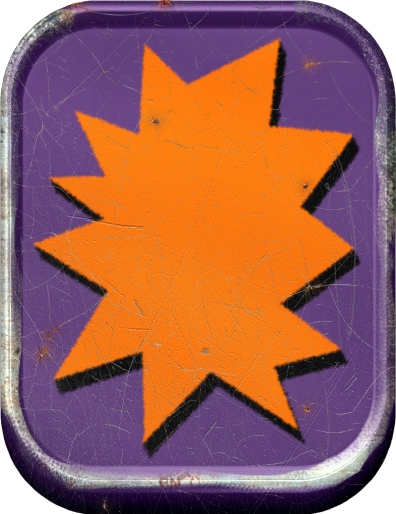
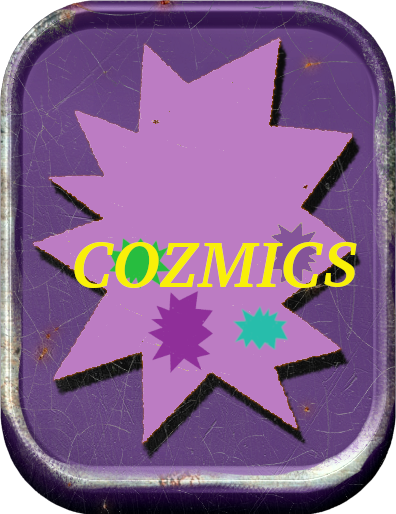
update GUI
update GUI  png de base

diff --git a/zwabo-cozmics.lv2/modgui/stylesheet-cozmics.css b/zwabo-cozmics.lv2/modgui/stylesheet-cozmics.css
@@ -17,13 +17,13 @@
     right:30px;
     text-align:center;
     text-transform:uppercase;
-    top:290px;
+    top:350px;
 }
 
 .mod-pedal-lata{{{cns}}} .mod-plugin-brand h1 {
     color:#111;
     font-family:"Nexa";
-    font-size:32px;
+    font-size:21px;
 }
 
 /* = PLUGIN'S NAME
@@ -39,7 +39,7 @@
 
 .mod-pedal-lata{{{cns}}} .mod-plugin-name h1 {
     font-family:"Questrial";
-    font-size:24px;
+    font-size:0px;
     line-height:1;
 }
 
